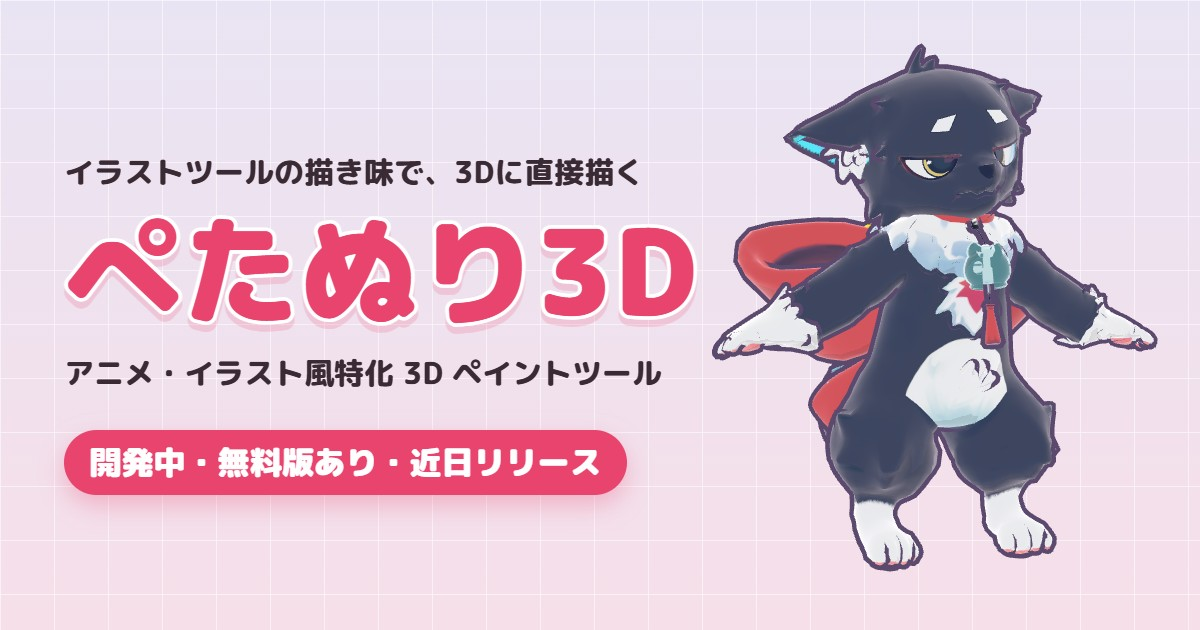
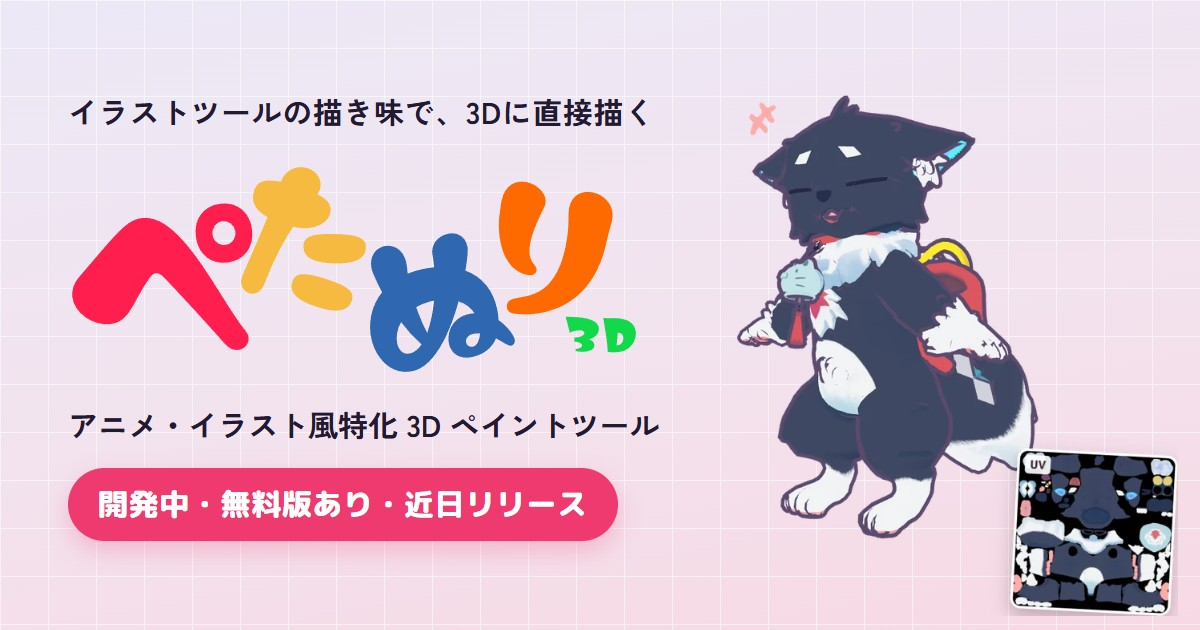
ぺたぬり3D：新しいロゴとアイコンに差し替え
- ぺたぬり3D のページの見出し・ナビ、トップの「ツール」の節の文字をロゴの画像に
- ぺたぬり3D のページとマニュアルの favicon と apple-touch-icon を新しいアイコンに
- OGP 画像（og.jpg）を新しいロゴで作り直し

diff --git a/petanuri.html b/petanuri.html
@@ -16,7 +16,8 @@
   <meta name="twitter:site" content="@Yak_HyperTYTY">
   <meta name="twitter:image" content="https://hyper-tuyotuyo.com/petanuri/assets/img/og.jpg">
   <link rel="canonical" href="https://hyper-tuyotuyo.com/petanuri">
-  <link rel="icon" href="/data/hypertuyotuyo.png" type="image/png">
+  <link rel="icon" href="/petanuri/assets/img/brand/icon-32.png" type="image/png">
+  <link rel="apple-touch-icon" href="/petanuri/assets/img/brand/icon-180.png">
   <link rel="preconnect" href="https://fonts.googleapis.com">
   <link rel="preconnect" href="https://fonts.gstatic.com" crossorigin>
   <link href="https://fonts.googleapis.com/css2?family=M+PLUS+Rounded+1c:wght@800&family=Zen+Kaku+Gothic+New:wght@500;700&display=swap" rel="stylesheet">
@@ -28,7 +29,7 @@
 <nav class="pn-nav" aria-label="メニュー">
   <div class="pn-nav-inner">
     <a href="/" class="pn-nav-logo" aria-label="はいぱーつよつよ トップへ"><img src="/data/hypertuyotuyo.png" alt="はいぱーつよつよ" width="40" height="28"></a>
-    <a href="/petanuri" class="pn-nav-title">ぺたぬり3D</a>
+    <a href="/petanuri" class="pn-nav-title"><img src="/petanuri/assets/img/brand/logo.svg" alt="ぺたぬり3D" width="90" height="36"></a>
     <button class="pn-burger" type="button" aria-label="メニューを開く" aria-expanded="false" aria-controls="pn-links"><span></span><span></span><span></span></button>
     <ul class="pn-nav-links" id="pn-links">
       <li><a href="#gallery">作例</a></li>
@@ -47,7 +48,7 @@
     <div>
       <p class="pn-status"><span class="dot" aria-hidden="true"></span>開発中・近日リリース</p>
       <p class="pn-eyebrow">アニメ・イラスト風特化3Dペイントツール！</p>
-      <h1 id="pn-hero-title" class="pn-logo-word">ぺたぬり<span class="n3d">3D</span></h1>
+      <h1 id="pn-hero-title" class="pn-logo-word"><img src="/petanuri/assets/img/brand/logo.svg" alt="ぺたぬり3D" width="794" height="319"></h1>
       <span class="pn-logo-sub">～アニメ塗り向け 3D ペイント～</span>
       <p class="pn-hero-lead">3D モデルに直接塗れるペイントツールです。<br>UV を探さずに、見たままの場所に描けます。<br>仕上がったテクスチャは PNG・PSD で書き出せます。</p>
       <div class="pn-btns">

diff --git a/petanuri/assets/css/petanuri.css b/petanuri/assets/css/petanuri.css
@@ -47,6 +47,7 @@ body.pn-body {
 .pn-nav-inner { max-width: var(--wrap); margin: 0 auto; padding: 0 1.5rem; height: 62px; display: flex; align-items: center; gap: 1rem; }
 .pn-nav-logo img { height: 28px; width: auto; }
 .pn-nav-title { font-family: var(--pn-display); font-weight: 800; font-size: 1.05rem; padding-left: 1rem; border-left: 1px solid var(--line-2); white-space: nowrap; }
+.pn-nav-title img { display: block; height: 36px; width: auto; }
 .pn-nav-links { display: flex; gap: 0.3rem; list-style: none; margin-left: auto; align-items: center; }
 .pn-nav-links a { display: block; font-size: 0.86rem; font-weight: 700; color: var(--ink-2); padding: 0.4rem 0.8rem; border-radius: 999px; transition: background-color .15s, color .15s; }
 .pn-nav-links a:hover { color: var(--ink); background: var(--paper-2); }
@@ -90,7 +91,8 @@ body.pn-body {
 .pn-hero-grid { display: grid; grid-template-columns: minmax(0, 6fr) minmax(0, 5fr); gap: clamp(2rem, 5vw, 4.5rem); align-items: center; }
 .pn-eyebrow { font-weight: 700; font-size: 1rem; color: var(--accent-dark); margin-bottom: 0.9rem; }
 .pn-logo-word { font-family: var(--pn-display); font-size: clamp(3.4rem, 9vw, 6.4rem); font-weight: 800; line-height: 1; letter-spacing: -0.01em; }
-.pn-logo-word .n3d { font-size: 0.5em; margin-left: 0.08em; color: var(--accent); vertical-align: 0.55em; }
+/* ロゴは画像（brand/logo.svg。tools/PetaNuri3D/branding で作る） */
+.pn-logo-word img { display: block; width: min(100%, 30rem); height: auto; }
 .pn-stroke { display: none; }
 .pn-logo-sub { display: block; margin-top: 0.9rem; font-weight: 700; color: var(--ink-2); font-size: 1rem; }
 .pn-hero-lead { margin: 1.5rem 0 2rem; font-size: 1.05rem; line-height: 2; max-width: 30em; }

diff --git a/petanuri/manual/pose.html b/petanuri/manual/pose.html
@@ -6,7 +6,8 @@
   <title>ポーズ・ブレンドシェイプ・頂点グループ | ぺたぬり3D マニュアル | はいぱーつよつよ</title>
   <meta name="description" content="ポーズを付けて塗る・人型のボーンの色分け・ポーズの左右対称・表情の形で塗る・ボーンの重みから範囲">
   <link rel="canonical" href="https://hyper-tuyotuyo.com/petanuri/manual/pose">
-  <link rel="icon" href="/data/hypertuyotuyo.png" type="image/png">
+  <link rel="icon" href="/petanuri/assets/img/brand/icon-32.png" type="image/png">
+  <link rel="apple-touch-icon" href="/petanuri/assets/img/brand/icon-180.png">
   <link rel="preconnect" href="https://fonts.googleapis.com">
   <link rel="preconnect" href="https://fonts.gstatic.com" crossorigin>
   <link href="https://fonts.googleapis.com/css2?family=M+PLUS+Rounded+1c:wght@800&family=Zen+Kaku+Gothic+New:wght@500;700&display=swap" rel="stylesheet">
@@ -17,7 +18,7 @@
 <nav class="pn-nav" aria-label="メニュー">
   <div class="pn-nav-inner">
     <a href="/" class="pn-nav-logo" aria-label="はいぱーつよつよ トップへ"><img src="/data/hypertuyotuyo.png" alt="はいぱーつよつよ" width="40" height="28"></a>
-    <a href="/petanuri" class="pn-nav-title">ぺたぬり3D</a>
+    <a href="/petanuri" class="pn-nav-title"><img src="/petanuri/assets/img/brand/logo.svg" alt="ぺたぬり3D" width="90" height="36"></a>
     <button class="pn-burger" type="button" aria-label="メニューを開く" aria-expanded="false" aria-controls="pn-links"><span></span><span></span><span></span></button>
     <ul class="pn-nav-links" id="pn-links">
       <li><a href="/petanuri">紹介ページ</a></li>

diff --git a/petanuri/manual/screen.html b/petanuri/manual/screen.html
@@ -6,7 +6,8 @@
   <title>画面とパネル | ぺたぬり3D マニュアル | はいぱーつよつよ</title>
   <meta name="description" content="パネルの配置・タブ・折りたたみ・アイコンの帯・ツールの並べ替え・よく使うツール・四隅のアイコン・3D ナビ・右クリック・設定">
   <link rel="canonical" href="https://hyper-tuyotuyo.com/petanuri/manual/screen">
-  <link rel="icon" href="/data/hypertuyotuyo.png" type="image/png">
+  <link rel="icon" href="/petanuri/assets/img/brand/icon-32.png" type="image/png">
+  <link rel="apple-touch-icon" href="/petanuri/assets/img/brand/icon-180.png">
   <link rel="preconnect" href="https://fonts.googleapis.com">
   <link rel="preconnect" href="https://fonts.gstatic.com" crossorigin>
   <link href="https://fonts.googleapis.com/css2?family=M+PLUS+Rounded+1c:wght@800&family=Zen+Kaku+Gothic+New:wght@500;700&display=swap" rel="stylesheet">
@@ -17,7 +18,7 @@
 <nav class="pn-nav" aria-label="メニュー">
   <div class="pn-nav-inner">
     <a href="/" class="pn-nav-logo" aria-label="はいぱーつよつよ トップへ"><img src="/data/hypertuyotuyo.png" alt="はいぱーつよつよ" width="40" height="28"></a>
-    <a href="/petanuri" class="pn-nav-title">ぺたぬり3D</a>
+    <a href="/petanuri" class="pn-nav-title"><img src="/petanuri/assets/img/brand/logo.svg" alt="ぺたぬり3D" width="90" height="36"></a>
     <button class="pn-burger" type="button" aria-label="メニューを開く" aria-expanded="false" aria-controls="pn-links"><span></span><span></span><span></span></button>
     <ul class="pn-nav-links" id="pn-links">
       <li><a href="/petanuri">紹介ページ</a></li>

diff --git a/petanuri/manual/uv.html b/petanuri/manual/uv.html
@@ -6,7 +6,8 @@
   <title>UV の区画と表示範囲 | ぺたぬり3D マニュアル | はいぱーつよつよ</title>
   <meta name="description" content="UV を並べて直接塗る・UV のガイド・つなげて塗る・表示範囲・隠すペン・周りを薄く見せる・隠し方の保存・メッシュの線">
   <link rel="canonical" href="https://hyper-tuyotuyo.com/petanuri/manual/uv">
-  <link rel="icon" href="/data/hypertuyotuyo.png" type="image/png">
+  <link rel="icon" href="/petanuri/assets/img/brand/icon-32.png" type="image/png">
+  <link rel="apple-touch-icon" href="/petanuri/assets/img/brand/icon-180.png">
   <link rel="preconnect" href="https://fonts.googleapis.com">
   <link rel="preconnect" href="https://fonts.gstatic.com" crossorigin>
   <link href="https://fonts.googleapis.com/css2?family=M+PLUS+Rounded+1c:wght@800&family=Zen+Kaku+Gothic+New:wght@500;700&display=swap" rel="stylesheet">
@@ -17,7 +18,7 @@
 <nav class="pn-nav" aria-label="メニュー">
   <div class="pn-nav-inner">
     <a href="/" class="pn-nav-logo" aria-label="はいぱーつよつよ トップへ"><img src="/data/hypertuyotuyo.png" alt="はいぱーつよつよ" width="40" height="28"></a>
-    <a href="/petanuri" class="pn-nav-title">ぺたぬり3D</a>
+    <a href="/petanuri" class="pn-nav-title"><img src="/petanuri/assets/img/brand/logo.svg" alt="ぺたぬり3D" width="90" height="36"></a>
     <button class="pn-burger" type="button" aria-label="メニューを開く" aria-expanded="false" aria-controls="pn-links"><span></span><span></span><span></span></button>
     <ul class="pn-nav-links" id="pn-links">
       <li><a href="/petanuri">紹介ページ</a></li>

diff --git a/petanuri/manual/start.html b/petanuri/manual/start.html
@@ -6,7 +6,8 @@
   <title>はじめかた | ぺたぬり3D マニュアル | はいぱーつよつよ</title>
   <meta name="description" content="起動・新規作成・作業ファイルを開く・保存・自動保存・モデルの読み直し・バージョン・Pro へのアップグレード">
   <link rel="canonical" href="https://hyper-tuyotuyo.com/petanuri/manual/start">
-  <link rel="icon" href="/data/hypertuyotuyo.png" type="image/png">
+  <link rel="icon" href="/petanuri/assets/img/brand/icon-32.png" type="image/png">
+  <link rel="apple-touch-icon" href="/petanuri/assets/img/brand/icon-180.png">
   <link rel="preconnect" href="https://fonts.googleapis.com">
   <link rel="preconnect" href="https://fonts.gstatic.com" crossorigin>
   <link href="https://fonts.googleapis.com/css2?family=M+PLUS+Rounded+1c:wght@800&family=Zen+Kaku+Gothic+New:wght@500;700&display=swap" rel="stylesheet">
@@ -17,7 +18,7 @@
 <nav class="pn-nav" aria-label="メニュー">
   <div class="pn-nav-inner">
     <a href="/" class="pn-nav-logo" aria-label="はいぱーつよつよ トップへ"><img src="/data/hypertuyotuyo.png" alt="はいぱーつよつよ" width="40" height="28"></a>
-    <a href="/petanuri" class="pn-nav-title">ぺたぬり3D</a>
+    <a href="/petanuri" class="pn-nav-title"><img src="/petanuri/assets/img/brand/logo.svg" alt="ぺたぬり3D" width="90" height="36"></a>
     <button class="pn-burger" type="button" aria-label="メニューを開く" aria-expanded="false" aria-controls="pn-links"><span></span><span></span><span></span></button>
     <ul class="pn-nav-links" id="pn-links">
       <li><a href="/petanuri">紹介ページ</a></li>

diff --git a/petanuri/manual/draw.html b/petanuri/manual/draw.html
@@ -6,7 +6,8 @@
   <title>描く | ぺたぬり3D マニュアル | はいぱーつよつよ</title>
   <meta name="description" content="ペン・筆・ブラシ集・消しゴム・色混ぜ・塗りつぶし・グラデーション・スポイト・色・左右対称（効く道具の一覧）">
   <link rel="canonical" href="https://hyper-tuyotuyo.com/petanuri/manual/draw">
-  <link rel="icon" href="/data/hypertuyotuyo.png" type="image/png">
+  <link rel="icon" href="/petanuri/assets/img/brand/icon-32.png" type="image/png">
+  <link rel="apple-touch-icon" href="/petanuri/assets/img/brand/icon-180.png">
   <link rel="preconnect" href="https://fonts.googleapis.com">
   <link rel="preconnect" href="https://fonts.gstatic.com" crossorigin>
   <link href="https://fonts.googleapis.com/css2?family=M+PLUS+Rounded+1c:wght@800&family=Zen+Kaku+Gothic+New:wght@500;700&display=swap" rel="stylesheet">
@@ -17,7 +18,7 @@
 <nav class="pn-nav" aria-label="メニュー">
   <div class="pn-nav-inner">
     <a href="/" class="pn-nav-logo" aria-label="はいぱーつよつよ トップへ"><img src="/data/hypertuyotuyo.png" alt="はいぱーつよつよ" width="40" height="28"></a>
-    <a href="/petanuri" class="pn-nav-title">ぺたぬり3D</a>
+    <a href="/petanuri" class="pn-nav-title"><img src="/petanuri/assets/img/brand/logo.svg" alt="ぺたぬり3D" width="90" height="36"></a>
     <button class="pn-burger" type="button" aria-label="メニューを開く" aria-expanded="false" aria-controls="pn-links"><span></span><span></span><span></span></button>
     <ul class="pn-nav-links" id="pn-links">
       <li><a href="/petanuri">紹介ページ</a></li>

diff --git a/petanuri/manual/sets.html b/petanuri/manual/sets.html
@@ -6,7 +6,8 @@
   <title>テクスチャセット | ぺたぬり3D マニュアル | はいぱーつよつよ</title>
   <meta name="description" content="テクスチャセットを選ぶ・2 つのセットをまたいで描く・解像度・メモリの節約・行き場のないセット">
   <link rel="canonical" href="https://hyper-tuyotuyo.com/petanuri/manual/sets">
-  <link rel="icon" href="/data/hypertuyotuyo.png" type="image/png">
+  <link rel="icon" href="/petanuri/assets/img/brand/icon-32.png" type="image/png">
+  <link rel="apple-touch-icon" href="/petanuri/assets/img/brand/icon-180.png">
   <link rel="preconnect" href="https://fonts.googleapis.com">
   <link rel="preconnect" href="https://fonts.gstatic.com" crossorigin>
   <link href="https://fonts.googleapis.com/css2?family=M+PLUS+Rounded+1c:wght@800&family=Zen+Kaku+Gothic+New:wght@500;700&display=swap" rel="stylesheet">
@@ -17,7 +18,7 @@
 <nav class="pn-nav" aria-label="メニュー">
   <div class="pn-nav-inner">
     <a href="/" class="pn-nav-logo" aria-label="はいぱーつよつよ トップへ"><img src="/data/hypertuyotuyo.png" alt="はいぱーつよつよ" width="40" height="28"></a>
-    <a href="/petanuri" class="pn-nav-title">ぺたぬり3D</a>
+    <a href="/petanuri" class="pn-nav-title"><img src="/petanuri/assets/img/brand/logo.svg" alt="ぺたぬり3D" width="90" height="36"></a>
     <button class="pn-burger" type="button" aria-label="メニューを開く" aria-expanded="false" aria-controls="pn-links"><span></span><span></span><span></span></button>
     <ul class="pn-nav-links" id="pn-links">
       <li><a href="/petanuri">紹介ページ</a></li>

diff --git a/petanuri/manual/layers.html b/petanuri/manual/layers.html
@@ -6,7 +6,8 @@
   <title>レイヤー | ぺたぬり3D マニュアル | はいぱーつよつよ</title>
   <meta name="description" content="レイヤー・合成モード・フォルダ・マスク・調整レイヤー・フィルター・自動塗り・作業の履歴">
   <link rel="canonical" href="https://hyper-tuyotuyo.com/petanuri/manual/layers">
-  <link rel="icon" href="/data/hypertuyotuyo.png" type="image/png">
+  <link rel="icon" href="/petanuri/assets/img/brand/icon-32.png" type="image/png">
+  <link rel="apple-touch-icon" href="/petanuri/assets/img/brand/icon-180.png">
   <link rel="preconnect" href="https://fonts.googleapis.com">
   <link rel="preconnect" href="https://fonts.gstatic.com" crossorigin>
   <link href="https://fonts.googleapis.com/css2?family=M+PLUS+Rounded+1c:wght@800&family=Zen+Kaku+Gothic+New:wght@500;700&display=swap" rel="stylesheet">
@@ -17,7 +18,7 @@
 <nav class="pn-nav" aria-label="メニュー">
   <div class="pn-nav-inner">
     <a href="/" class="pn-nav-logo" aria-label="はいぱーつよつよ トップへ"><img src="/data/hypertuyotuyo.png" alt="はいぱーつよつよ" width="40" height="28"></a>
-    <a href="/petanuri" class="pn-nav-title">ぺたぬり3D</a>
+    <a href="/petanuri" class="pn-nav-title"><img src="/petanuri/assets/img/brand/logo.svg" alt="ぺたぬり3D" width="90" height="36"></a>
     <button class="pn-burger" type="button" aria-label="メニューを開く" aria-expanded="false" aria-controls="pn-links"><span></span><span></span><span></span></button>
     <ul class="pn-nav-links" id="pn-links">
       <li><a href="/petanuri">紹介ページ</a></li>

diff --git a/petanuri/manual/material.html b/petanuri/manual/material.html
@@ -6,7 +6,8 @@
   <title>仕上がりと lilToon のマテリアル | ぺたぬり3D マニュアル | はいぱーつよつよ</title>
   <meta name="description" content="lilToon の見た目で確かめる・影色やマスクを塗る・.unitypackage で書き出す">
   <link rel="canonical" href="https://hyper-tuyotuyo.com/petanuri/manual/material">
-  <link rel="icon" href="/data/hypertuyotuyo.png" type="image/png">
+  <link rel="icon" href="/petanuri/assets/img/brand/icon-32.png" type="image/png">
+  <link rel="apple-touch-icon" href="/petanuri/assets/img/brand/icon-180.png">
   <link rel="preconnect" href="https://fonts.googleapis.com">
   <link rel="preconnect" href="https://fonts.gstatic.com" crossorigin>
   <link href="https://fonts.googleapis.com/css2?family=M+PLUS+Rounded+1c:wght@800&family=Zen+Kaku+Gothic+New:wght@500;700&display=swap" rel="stylesheet">
@@ -17,7 +18,7 @@
 <nav class="pn-nav" aria-label="メニュー">
   <div class="pn-nav-inner">
     <a href="/" class="pn-nav-logo" aria-label="はいぱーつよつよ トップへ"><img src="/data/hypertuyotuyo.png" alt="はいぱーつよつよ" width="40" height="28"></a>
-    <a href="/petanuri" class="pn-nav-title">ぺたぬり3D</a>
+    <a href="/petanuri" class="pn-nav-title"><img src="/petanuri/assets/img/brand/logo.svg" alt="ぺたぬり3D" width="90" height="36"></a>
     <button class="pn-burger" type="button" aria-label="メニューを開く" aria-expanded="false" aria-controls="pn-links"><span></span><span></span><span></span></button>
     <ul class="pn-nav-links" id="pn-links">
       <li><a href="/petanuri">紹介ページ</a></li>

diff --git a/petanuri/manual/edit.html b/petanuri/manual/edit.html
@@ -6,7 +6,8 @@
   <title>選択範囲・変形・文字・定規 | ぺたぬり3D マニュアル | はいぱーつよつよ</title>
   <meta name="description" content="選択範囲・コピーと貼り付け・変形・画像を貼る・文字・定規">
   <link rel="canonical" href="https://hyper-tuyotuyo.com/petanuri/manual/edit">
-  <link rel="icon" href="/data/hypertuyotuyo.png" type="image/png">
+  <link rel="icon" href="/petanuri/assets/img/brand/icon-32.png" type="image/png">
+  <link rel="apple-touch-icon" href="/petanuri/assets/img/brand/icon-180.png">
   <link rel="preconnect" href="https://fonts.googleapis.com">
   <link rel="preconnect" href="https://fonts.gstatic.com" crossorigin>
   <link href="https://fonts.googleapis.com/css2?family=M+PLUS+Rounded+1c:wght@800&family=Zen+Kaku+Gothic+New:wght@500;700&display=swap" rel="stylesheet">
@@ -17,7 +18,7 @@
 <nav class="pn-nav" aria-label="メニュー">
   <div class="pn-nav-inner">
     <a href="/" class="pn-nav-logo" aria-label="はいぱーつよつよ トップへ"><img src="/data/hypertuyotuyo.png" alt="はいぱーつよつよ" width="40" height="28"></a>
-    <a href="/petanuri" class="pn-nav-title">ぺたぬり3D</a>
+    <a href="/petanuri" class="pn-nav-title"><img src="/petanuri/assets/img/brand/logo.svg" alt="ぺたぬり3D" width="90" height="36"></a>
     <button class="pn-burger" type="button" aria-label="メニューを開く" aria-expanded="false" aria-controls="pn-links"><span></span><span></span><span></span></button>
     <ul class="pn-nav-links" id="pn-links">
       <li><a href="/petanuri">紹介ページ</a></li>

diff --git a/petanuri/manual/export.html b/petanuri/manual/export.html
@@ -6,7 +6,8 @@
   <title>書き出し | ぺたぬり3D マニュアル | はいぱーつよつよ</title>
   <meta name="description" content="PNG・PSD・書き出し先のフォルダ・マテリアル・書き出しのにじみ（パディング）">
   <link rel="canonical" href="https://hyper-tuyotuyo.com/petanuri/manual/export">
-  <link rel="icon" href="/data/hypertuyotuyo.png" type="image/png">
+  <link rel="icon" href="/petanuri/assets/img/brand/icon-32.png" type="image/png">
+  <link rel="apple-touch-icon" href="/petanuri/assets/img/brand/icon-180.png">
   <link rel="preconnect" href="https://fonts.googleapis.com">
   <link rel="preconnect" href="https://fonts.gstatic.com" crossorigin>
   <link href="https://fonts.googleapis.com/css2?family=M+PLUS+Rounded+1c:wght@800&family=Zen+Kaku+Gothic+New:wght@500;700&display=swap" rel="stylesheet">
@@ -17,7 +18,7 @@
 <nav class="pn-nav" aria-label="メニュー">
   <div class="pn-nav-inner">
     <a href="/" class="pn-nav-logo" aria-label="はいぱーつよつよ トップへ"><img src="/data/hypertuyotuyo.png" alt="はいぱーつよつよ" width="40" height="28"></a>
-    <a href="/petanuri" class="pn-nav-title">ぺたぬり3D</a>
+    <a href="/petanuri" class="pn-nav-title"><img src="/petanuri/assets/img/brand/logo.svg" alt="ぺたぬり3D" width="90" height="36"></a>
     <button class="pn-burger" type="button" aria-label="メニューを開く" aria-expanded="false" aria-controls="pn-links"><span></span><span></span><span></span></button>
     <ul class="pn-nav-links" id="pn-links">
       <li><a href="/petanuri">紹介ページ</a></li>
